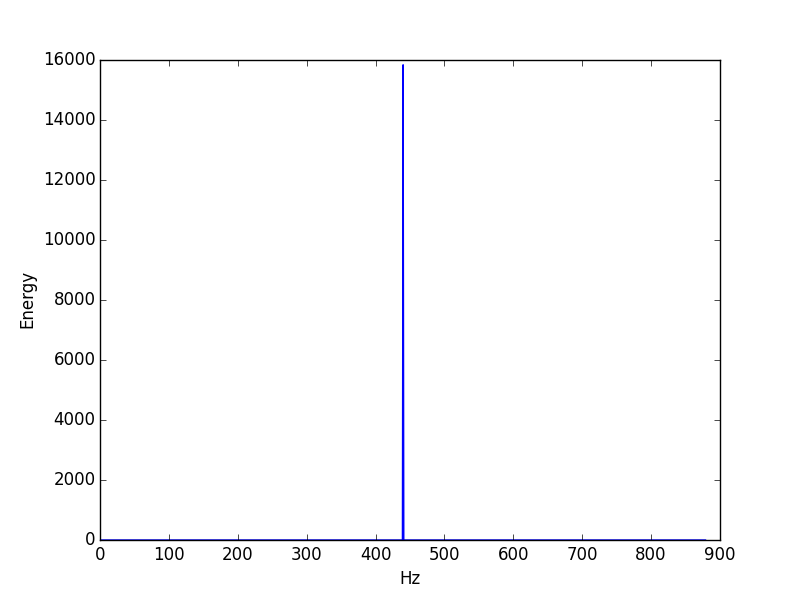
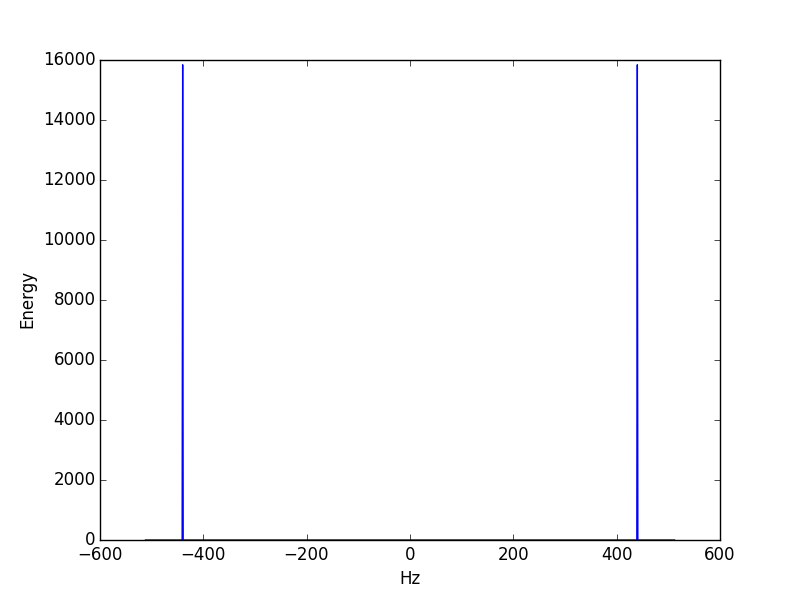
Finish assignment 1

diff --git a/assignment_1/text/body.tex b/assignment_1/text/body.tex
@@ -1,48 +1,49 @@
 \section*{1.}
 \subsection*{a)}
-\begin{enumerate}
-  \item \(f(x,y) = e^{2 \pi i (px + qy)}\)
-  \item \(g(t) = f(x(t),y(t)) = e^{2 \pi i (p (x_0 + tu_1) + q (y_0 + tu_2))}\)
+\begin{itemize}[leftmargin=*]
+  \item[] \(f(x,y) = e^{2 \pi i (px + qy)}\)
 
-    Replace x with x(t) and y with y(t).
-  \item \(= e^{2 \pi i (px_0 + ptu_1 + qy_0 + qtu_2)}\)
+  \item[] Replace x with x(t) and y with y(t).\\
+    \(g(t) = f(x(t),y(t)) = e^{2 \pi i (p (x_0 + tu_1) + q (y_0 + tu_2))}\)
 
-    Multiply in p and q.
-  \item \(= e^{2 \pi i ((px_0 + qy_0) + (pu_1 + qu_2) t)}\)
+  \item[] Multiply in p and q.\\
+    \(= e^{2 \pi i (px_0 + ptu_1 + qy_0 + qtu_2)}\)
 
-    Group \(p x_0\) with \(q y_0\), \(p u_1\) with \(q u_2\) and move \(t\) outside.
-  \item \(= e^{2 \pi i (px_0 + qy_0) + 2 \pi i (pu_1 + qu_2) t}\)
+  \item[] Group \(p x_0\) with \(q y_0\), \(p u_1\) with \(q u_2\) and move \(t\) outside.\\
+    \(= e^{2 \pi i ((px_0 + qy_0) + (pu_1 + qu_2) t)}\)
 
-    Multiply in \(2 \pi i\)
-  \item \(= e^{2 \pi i (px_0 + qy_0) + 2 \pi i (v_1 u_1 + v_2 u_2) t}\)
+  \item[] Multiply in \(2 \pi i\)\\
+    \(= e^{2 \pi i (px_0 + qy_0) + 2 \pi i (pu_1 + qu_2) t}\)
 
-    \(v = (p,q)\), so replace \(q\) and \(p\) with \(v_1\) and \(v_2\) respectively.
-  \item \(= e^{2 \pi i (px_0 + qy_0) + 2 \pi i (v \cdot u) t}\)
+  \item[] \(v = (p,q)\), so replace \(q\) and \(p\) with \(v_1\) and \(v_2\) respectively.\\
+    \(= e^{2 \pi i (px_0 + qy_0) + 2 \pi i (v_1 u_1 + v_2 u_2) t}\)
 
-    Dot product is defined (for 2D vectors) as \(v \cdot w = v_1 w_1 + v_2 w_2\), so replace \((v_1 u_1 + v_2 u_2)\) with \((v \cdot u)\).
-  \item \(= e^{2 \pi i (px_0 + qy_0) + 2 \pi i (\norm{v} cos(\theta)) t}\)
+  \item[] Dot product is defined (for 2D vectors) as \(v \cdot w = v_1 w_1 + v_2 w_2\), so replace \((v_1 u_1 + v_2 u_2)\) with \((v \cdot u)\).\\
+    \(= e^{2 \pi i (px_0 + qy_0) + 2 \pi i (v \cdot u) t}\)
 
-    Dot product can be expanded to \(\norm{v} \norm{u} cos(\theta)\), so replace the dot product with it. \(\norm{u} = 1\), so we can remove it from the calculation.
-  \item \(= e^{2 \pi i (px_0 + qy_0)} e^{2 \pi i(\norm{v} cos(\theta)) t}\)
+  \item[] Dot product can be expanded to \(\norm{v} \norm{u} cos(\theta)\), so replace the dot product with it. \(\norm{u} = 1\), so we can remove it from the calculation.\\
+    \(= e^{2 \pi i (px_0 + qy_0) + 2 \pi i (\norm{v} cos(\theta)) t}\)
 
-    Split into two exponential functions: \(e^{x + y} = e^x e^y\).
-  \item \(= A e^{2 \pi i (\norm{v} cos(\theta)) t}\)
+  \item[] Split into two exponential functions: \(e^{x + y} = e^x e^y\).\\
+    \(= e^{2 \pi i (px_0 + qy_0)} e^{2 \pi i(\norm{v} cos(\theta)) t}\)
 
-    Set \(A = e^{2 \pi i (px_0 + qy_0)}\) since, defined by the task, \say{\(A\) is some complex number that does not depend on t}.
-\end{enumerate}
+  \item[] Set \(A = e^{2 \pi i (px_0 + qy_0)}\) since, as defined by the task, \say{\(A\) is some complex number that does not depend on t}.\\
+    \(= A e^{2 \pi i (\norm{v} cos(\theta)) t}\)
+\end{itemize}
 
 \subsection*{b)}
 When \(L\) is orthogonal to \(v\), \(u\) is also orthogonal to \(v\) since \(L\) has direction \(u\).
 As seen from the calculations below, if \(u\) is orthogonal to \(v\), then the angle angle between them, \(\theta\), is \(\frac{\pi}{2}\), which will result into \(0\) from \(cos(\theta)\).
 This means that the exponent ends up as \(0\), and \(e^0 = 1\).
 Only the constant \(A\) then remains.
-\begin{enumerate}
-  \item \(g(t) = A e^{2 \pi i (\norm{v} cos(\theta)) t}\)
-  \item \(= A e^{2 \pi i (\norm{v} cos(\frac{\pi}{2})) t}\)
-  \item \(= A e^{2 \pi i (\norm{v} 0) t}\)
-  \item \(= A e^{0}\)
-  \item \(= A\)
-\end{enumerate}
+See below for the steps.
+\begin{itemize}[leftmargin=*]
+  \item[] \(g(t) = A e^{2 \pi i (\norm{v} cos(\theta)) t}\)
+  \item[] \(= A e^{2 \pi i (\norm{v} cos(\frac{\pi}{2})) t}\)
+  \item[] \(= A e^{2 \pi i (\norm{v} 0) t}\)
+  \item[] \(= A e^{0}\)
+  \item[] \(= A\)
+\end{itemize}
 
 \subsection*{c)}
 
@@ -85,14 +86,20 @@ When \(\theta\) is \(0\) (to maximize frequencey), \(cos(\theta)\) is 1, so we c
 \end{enumerate}
 
 \subsection*{e)}
-\begin{enumerate}
-  \item \(\lambda = 2 \pi / \abs{\omega}\)
-  \item \(e^{i \omega t}\), so
-\end{enumerate}
+The wavelength is calculated by \(\lambda = \frac{2 \pi}{\abs{\omega}}\).
+Since \(f(x,y)\) is two-dimensional, it has a wavelength in both x and y direction:
+\(e^{2 \pi i (p x + q y)} = e^{2 \pi i p x} e^{2 \pi i q y}\).
+From \(e^{i \omega t}\) it is clear that \(\omega = p\) and \(\omega = q\).
+Thus the frequencies are:
+\begin{itemize}
+  \item For x: \(\frac{2 \pi}{\abs{p}}\)
+  \item For y: \(\frac{2 \pi}{\abs{q}}\)
+\end{itemize}
+By using the answer from 2d, the wavelength of \(g(t) = f(x(t),y(t))\) will be \(\frac{2 \pi}{\sqrt{p^2 + q^2}}\).
 
 \section*{2.}
 \subsection*{a)}
-See 2a.py for the source code.
+See 2a.py for the source code, and the figure below for the plot.
 
 \begin{figure}[H]
 \includegraphics[width=\textwidth]{2a_power_spectrum}
@@ -101,7 +108,34 @@ See 2a.py for the source code.
 \end{figure}
 
 \subsection*{b)}
-See 2b.py for the source code. The calculated spectrums are exactly the same.
+Calculation for \(x_1[n]\):
+\begin{itemize}[leftmargin=*]
+  \item[] \(X_0 = 1 e^{-2 \pi i 0 \cdot 0 / 4} + 1 e^{-2 \pi i 0 \cdot 1 / 4} + 1 e^{-2 \pi i 0 \cdot 2 / 4} + 1 e^{-2 \pi i 0 \cdot 3 / 4}\)
+  \item[] \(= e^0 + e^0 + e^0 + e^0\)
+  \item[] \(= 1 + 1 + 1 + 1\)
+  \item[] \(= 4\)
+\end{itemize}
+\begin{itemize}[leftmargin=*]
+  \item[] \(X_1 = 1 e^{-2 \pi i 1 \cdot 0 / 4} + 1 e^{-2 \pi i 1 \cdot 1 / 4} + 1 e^{-2 \pi i 1 \cdot 2 / 4} + 1 e^{-2 \pi i 1 \cdot 3 / 4}\)
+  \item[] \(= e^0 + e^{-2 \pi i / 4} + e^{-4 \pi i / 4} + e^{-6 \pi i / 4}\)
+  \item[] \(= 1 + -i + (-1) + i\)
+  \item[] \(= 0\)
+\end{itemize}
+\begin{itemize}[leftmargin=*]
+  \item[] \(X_2 = 1 e^{-2 \pi i 2 \cdot 0 / 4} + 1 e^{-2 \pi i 2 \cdot 1 / 4} + 1 e^{-2 \pi i 2 \cdot 2 / 4} + 1 e^{-2 \pi i 2 \cdot 3 / 4}\)
+  \item[] \(= e^0 + e^{-4 \pi i / 4} + e^{-8 \pi i / 4} + e^{-12 \pi i / 4}\)
+  \item[] \(= 1 + (-1) + 1 + (-1)\)
+  \item[] \(= 0\)
+\end{itemize}
+\begin{itemize}[leftmargin=*]
+  \item[] \(X_3 = 1 e^{-2 \pi i 3 \cdot 0 / 4} + 1 e^{-2 \pi i 3 \cdot 1 / 4} + 1 e^{-2 \pi i 3 \cdot 2 / 4} + 1 e^{-2 \pi i 3 \cdot 3 / 4}\)
+  \item[] \(= e^0 + e^{-3 \pi i / 4} + e^{-6 \pi i / 4} + e^{-18 \pi i / 4}\)
+  \item[] \(= 1 + i + (-1) + -i\)
+  \item[] \(= 0\)
+\end{itemize}
+For \(x_2[n]\) and \(x_3[n]\), the 0's will cancel out the calulation of that index, meaning that they won't have any effect on the dft.
+Thus the calculated spectrums are exactly the same.
+See 2b.py for the source code, and the figures below for the plots.
 
 \begin{figure}[H]
   \centering
@@ -122,16 +156,65 @@ See 2b.py for the source code. The calculated spectrums are exactly the same.
   \label{fig:2b3}
 \end{figure}
 
-\subsection*{d)}
-See 2d.py for the source code.
-
+\subsection*{c)}
 \subsubsection*{i)}
-\begin{figure}[H]
-\includegraphics[width=\textwidth]{2dii}
-\caption{spectrum over [-2hz,2hz]}
-\label{fig:2dii}
-\end{figure}
+\begin{itemize}[leftmargin=*]
+  \item[] \(X_k = \displaystyle\sum_{n = 0}^{N - 1} x_n e^{-2 \pi i k n / N}\)
+  \item[] \(X_1[k] = \displaystyle\sum_{n = 0}^{N - 1} x_1[n] e^{-2 \pi i k n / N}\)
+  \item[] \(= \displaystyle\sum_{n = 0}^{N - 1} x[n] cos(2 \pi n m / N) e^{-2 \pi i k n / N}\)
+\end{itemize}
 
 \subsubsection*{ii)}
+\begin{itemize}[leftmargin=*]
+  \item[] \(X_k = \displaystyle\sum_{n = 0}^{N - 1} x_n e^{-2 \pi i k n / N}\)
+  \item[] \(X_2[k] = \displaystyle\sum_{n = 0}^{N - 1} x_2[n] e^{-2 \pi i k n / N}\)
+  \item[] \(= \displaystyle\sum_{n = 0}^{N - 1} x[n] sin(2 \pi n m / N) e^{-2 \pi i k n / N}\)
+\end{itemize}
+
+\subsection*{d)}
+\subsubsection*{i)}
+The samples for 4hz are as follows.
+\begin{itemize}[leftmargin=*]
+  \item[] \(x(t) = sin(2 \pi t)\)
+  \item[] \(x(0) = sin(0) = 0\)
+  \item[] \(x(\frac{1}{4}) = sin(\frac{\pi}{2}) = 1\)
+  \item[] \(x(\frac{2}{4}) = sin(\pi) = 0\)
+  \item[] \(x(\frac{3}{4}) = sin(\frac{3 \pi}{2}) = -1\)
+\end{itemize}
+\(x = (0, 1, 0, -1)\)\\\\
+The \(c_k\)'s are as follows.
+\begin{itemize}[leftmargin=*]
+  \item[] \(c_0 = \frac{1}{4} (1 e^{-2 \pi i 0 \cdot 0 / 4} + 0 e^{-2 \pi i 0 \cdot 1 / 4} -1 e^{-2 \pi i 0 \cdot 2 / 4} + 0 e^{-2 \pi i 0 \cdot 3 / 4})\)
+  \item[] \(= \frac{1}{4} (e^0 - e^0)\)
+  \item[] \(= \frac{1}{4} (1 - 1)\)
+  \item[] \(= 0\)
+\end{itemize}
+\begin{itemize}[leftmargin=*]
+  \item[] \(c_1 = \frac{1}{4} (0 e^{-2 \pi i 1 \cdot 0 / 4} + 1 e^{-2 \pi i 1 \cdot 1 / 4} + 0 e^{-2 \pi i 1 \cdot 2 / 4} - 1 e^{-2 \pi i 1 \cdot 3 / 4})\)
+  \item[] \(= \frac{1}{4} (e^{-\pi i / 2} - e^{-3 \pi i / 2})\)
+  \item[] \(= \frac{1}{4} (-i - i)\)
+  \item[] \(= -\frac{i}{2}\)
+\end{itemize}
+\begin{itemize}[leftmargin=*]
+  \item[] \(c_2 = \frac{1}{4} (0 e^{-2 \pi i 2 \cdot 0 / 4} + 1 e^{-2 \pi i 2 \cdot 1 / 4} + 0 e^{-2 \pi i 2 \cdot 2 / 4} + -1 e^{-2 \pi i 2 \cdot 3 / 4})\)
+  \item[] \(= \frac{1}{4} (e^{-\pi i} - e^{-3 \pi i})\)
+  \item[] \(= \frac{1}{4} (-1 - (-1))\)
+  \item[] \(= 0\)
+\end{itemize}
+\begin{itemize}[leftmargin=*]
+  \item[] \(c_3 = \frac{1}{4} (0 e^{-2 \pi i 3 \cdot 0 / 4} + 1 e^{-2 \pi i 3 \cdot 1 / 4} + 0 e^{-2 \pi i 3 \cdot 2 / 4} - 1 e^{-2 \pi i 3 \cdot 3 / 4})\)
+  \item[] \(= \frac{1}{4} (e^{-3 \pi i / 2} - e^{-9 \pi i / 2})\)
+  \item[] \(= \frac{1}{4} (i - (-i))\)
+  \item[] \(= \frac{i}{2}\)
+\end{itemize}
+\(c = (0, -0.5i, 0, 0.5i)\)
+
+\subsubsection*{ii)}
+See 2d.py for the source code.
+\begin{figure}[H]
+  \includegraphics[width=\textwidth]{2dii}
+  \caption{spectrum over [-2hz,2hz]}
+  \label{fig:2dii}
+\end{figure}
 
 % vim: set ts=2 sw=2 expandtab:

diff --git a/assignment_1/code/2a.py b/assignment_1/code/2a.py
@@ -10,42 +10,49 @@ PyAudio = pyaudio.PyAudio
 bitrate = 44000
 frequency = 440.0
 amplitude = 1.2
-length = 1.0
+length = 1.0 # Not part of the task, but nice to have
 
 num_samples = int(float(bitrate) * length)
 frequency_parameter = 2.0 * math.pi * frequency
-raw_samples = []
-byte_samples = bytearray(num_samples)
 
-for i in range(num_samples):
+raw_samples = [] # The raw samples as real values
+byte_samples = bytearray(num_samples) # The samples converted to byte sized integers
+
+sample_range = range(num_samples) # So we don't have to generate the range several times
+
+for i in sample_range:
     t = (float(i) / float(num_samples)) * length
     wave = math.sin(frequency_parameter * t) * amplitude
-    raw_samples.append(wave)
-    byte_wave = int((wave / amplitude + 1.0) / 2.0 * 255.0)
-    byte_samples[i] = max(0, min(255, byte_wave))
 
-wavedata = bytes(byte_samples)
+    raw_samples.append(wave)
+
+    byte_wave = int((wave + 1.0) / 2.0 * 255.0) # Tranform (-1, 1) to (0, 256]
+    byte_samples[i] = max(0, min(255, byte_wave)) # Clamp values to (0, 256]
+
 audio = PyAudio()
 stream = audio.open(format = audio.get_format_from_width(1), channels = 1, rate = bitrate, output = True)
-stream.write(wavedata)
+stream.write(bytes(byte_samples))
 stream.stop_stream()
 stream.close()
 audio.terminate()
 
 energies = []
 neg_two_pi = -2.0 * math.pi
+min_hz = -512
+max_hz = 512
+frequency_range = range(min_hz, max_hz + 1)
 
-for k in range(int(frequency) * 2):
+for k in frequency_range:
     ck = 0.0
     neg_two_pi_k = neg_two_pi * float(k)
-    for m in range(num_samples):
+    for m in sample_range:
         param = neg_two_pi_k * float(m) / float(num_samples)
         ck = ck + raw_samples[m] * (math.cos(param) + 1.0j * math.sin(param))
-    ck = 1.0 / float(num_samples) * ck
+    ck = ck / float(num_samples)
     energy = float(num_samples) * math.pow(abs(ck), 2.0)
     energies.append(energy)
 
-plt.plot(energies)
+plt.plot(frequency_range, energies)
 plt.xlabel('Hz')
 plt.ylabel('Energy')
 plt.show()

diff --git a/assignment_1/code/2b.py b/assignment_1/code/2b.py
@@ -1,6 +1,7 @@
 # Written by Magnus Bjerke Vik for IMT4202 at HiG (GUC)
 
 import math
+import cmath
 import matplotlib.pyplot as plt
 
 x1 = [1, 1, 1, 1]
@@ -11,19 +12,22 @@ sequences = [x1, x2, x3]
 colors = ['green', 'red', 'blue']
 linestyles = ['-', '-', '-']
 
+neg_two_pi = -2.0 * math.pi
+neg_two_pi_i = neg_two_pi * 1.0j
+
 for i, sequence in enumerate(sequences):
     num_samples = len(sequence)
 
     magnitudes = []
-    neg_two_pi = -2.0 * math.pi
 
     for k in range(9):
         dft = 0.0
-        neg_two_pi_k = neg_two_pi * float(k)
+        neg_two_pi_i_k = neg_two_pi_i * float(k)
 
         for m, sample in enumerate(sequence):
-            param = neg_two_pi_k * float(m) / float(num_samples)
-            dft = dft + sample * (math.cos(param) + 1.0j * math.sin(param))
+            param = neg_two_pi_i_k * float(m) / float(num_samples)
+            calc = sample * cmath.exp(param)
+            dft = dft + calc
 
         magnitude = abs(dft)
         magnitudes.append(magnitude)

diff --git a/assignment_1/code/2d.py b/assignment_1/code/2d.py
@@ -26,9 +26,12 @@ hz_range = range(min_hz, max_hz + 1)
 for k in hz_range:
     ck = 0.0
     neg_two_pi_k = neg_two_pi * float(k)
+
     for m in range(num_samples):
         param = neg_two_pi_k * float(m) / float(num_samples)
-        ck = ck + raw_samples[m] * (math.cos(param) + 1.0j * math.sin(param))
+        calc = raw_samples[m] * (math.cos(param) + 1.0j * math.sin(param))
+        ck = ck + calc
+
     ck = ck / float(num_samples)
     print("ck (k={}): {}".format(k, ck))
     cks.append(abs(ck))
